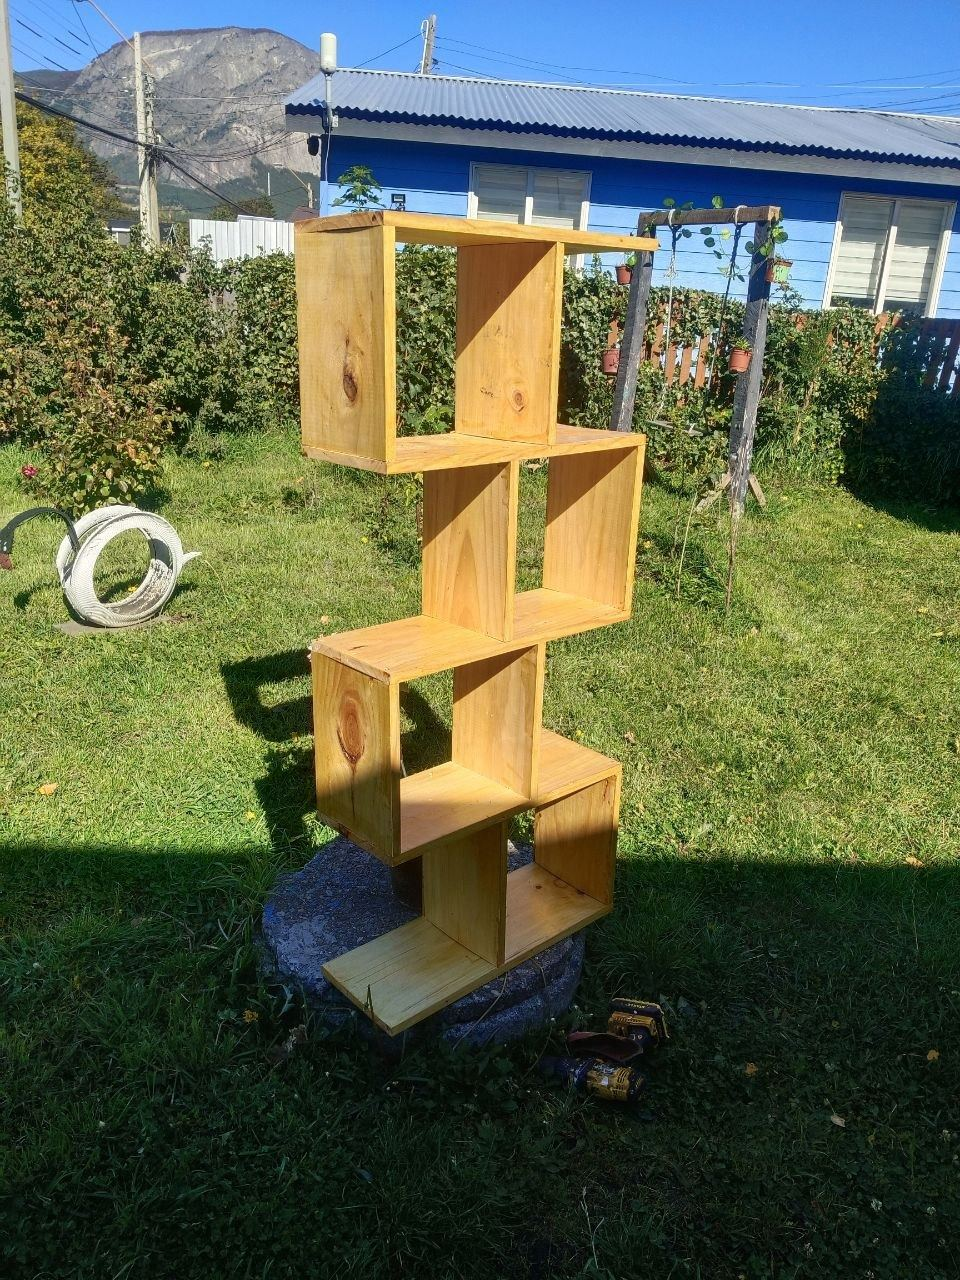
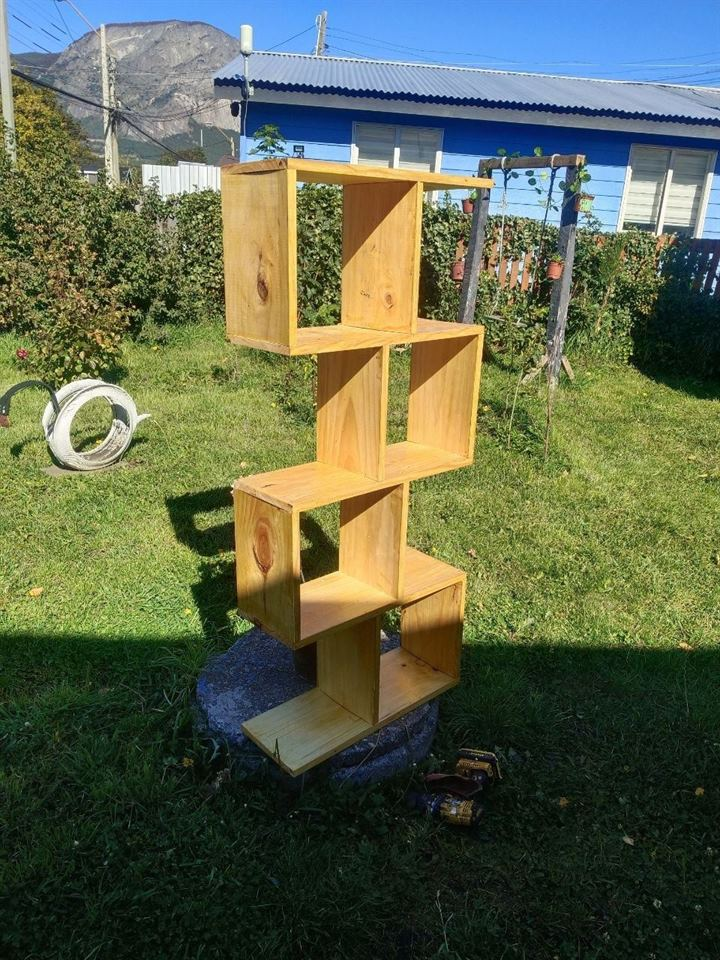
Posicionamiento: fotos pesadas optimizadas + kits de Perfil Google, Search Console/GA4 y difusion
- trabajo-6/8/12.jpg recomprimidas a 75% y <180 KB c/u (antes 248-358 KB) para velocidad movil
- marca/perfil-google.md: kit copiar-pegar para crear el Perfil de Negocio de Google (direccion + zona de servicio)
- marca/guia-search-console-ga4.md: pasos para registrar Search Console y GA4 y que datos pasarme
- marca/posts-difusion.md: borradores para Marketplace, grupos de Coyhaique, bio IG y WhatsApp a clientes

diff --git a/marca/perfil-google.md b/marca/perfil-google.md
@@ -1,0 +1,87 @@
+# 📍 Kit: Perfil de Negocio de Google (Google Maps)
+
+> **Por qué esto es lo #1:** cuando alguien en Coyhaique busca "muebles a medida", "soldador"
+> o "estanterías fierro madera", Google muestra PRIMERO el mapa con negocios locales.
+> Sin perfil, no existes en esa lista — con perfil, compites de inmediato.
+> Es gratis y se hace una sola vez. Todo lo de abajo está listo para **copiar y pegar**.
+
+---
+
+## Paso 1 — Crear el perfil
+
+1. Entra a **https://business.google.com** con tu cuenta `fer.becker21@gmail.com`
+2. Botón **"Agregar empresa"** (o "Administrar ahora")
+3. Ve pegando los datos de abajo en cada pantalla
+
+## Paso 2 — Datos para copiar y pegar
+
+| Campo | Valor |
+|---|---|
+| **Nombre del negocio** | `Soldaduras Becker · Fierro y Madera` |
+| **Categoría principal** | `Fabricante de muebles a medida` (si no aparece: `Herrería`) |
+| **Categorías secundarias** | `Herrería` · `Soldador` · `Taller de soldadura` |
+| **Teléfono** | `+56 9 5391 0713` |
+| **Sitio web** | `https://5egaloz.github.io/soldaduras-becker/` |
+| **Dirección** | ⚠ La escribes tú (dirección exacta del taller en Coyhaique) |
+| **¿Atiendes clientes en la dirección?** | **SÍ** (elegiste dirección visible) |
+| **¿Ofreces servicios fuera de tu dirección?** | **SÍ** → zona de servicio |
+| **Zona de servicio** | `Coyhaique` + `Región de Aysén` (agrega ambas) |
+
+**Horario** (igual al del sitio web — si no es el real, avísame y corrijo también la página):
+
+- Lunes a Sábado: **08:00 – 18:00**
+- Domingo: Cerrado
+
+## Paso 3 — Descripción del negocio (copiar y pegar)
+
+> Máximo 750 caracteres. Esta versión usa las palabras que la gente busca en Coyhaique:
+
+```
+Fabricamos muebles y estructuras en fierro y madera en Coyhaique: estanterías
+industriales, muebles para tiendas y negocios, mesas con patas metálicas, mesones,
+repisas y trabajos de soldadura a medida. Cada pieza se diseña según tu espacio y
+necesidad, combinando estructura de acero soldado con madera nativa de la zona.
+
+También hacemos rejas, portones y reparaciones en metal.
+
+Atendemos Coyhaique y toda la Región de Aysén. Cotiza por WhatsApp enviando una
+foto o idea de lo que necesitas: te respondemos con propuesta y precio. Trabajos
+que duran años, hechos en la Patagonia.
+```
+
+## Paso 4 — Fotos (súbelas apenas crees el perfil)
+
+Los perfiles con fotos reciben **muchos más contactos**. Sube las mismas de la galería
+del sitio (`assets\trabajos\`), en este orden de impacto:
+
+1. **La estantería industrial negra + madera** (la misma de `assets/og-imagen.jpg`) → ponla como **foto de portada**
+2. El mueble de la tienda de vinos
+3. La estantería del container
+4. Mesa con patas X / mesón / mesa redonda
+5. El resto de la galería (mientras más, mejor)
+
+📌 Si puedes, agrega después 1 foto tuya trabajando (soldando) — genera confianza.
+
+## Paso 5 — Verificación (solo tú puedes hacerla)
+
+Google te pedirá verificar que el negocio es real. Según lo que ofrezca:
+
+- **Video en vivo** (lo más común hoy): te pide grabar con el celular el taller,
+  herramientas de soldar y algún trabajo en proceso. Tenlo a mano antes de partir.
+- **Teléfono/SMS**: te llega un código al +56 9 5391 0713.
+- **Carta postal**: llega en 1–2 semanas a la dirección con un código.
+
+⚠ **El perfil NO aparece en Maps hasta completar la verificación.** Si te ofrece
+video, hazlo al tiro — es lo más rápido (aprobación en días).
+
+## Paso 6 — Después de verificado (5 minutos más)
+
+- [ ] Agregar link de Instagram: `https://www.instagram.com/muebleria.becker/` (Perfil → Editar → Redes sociales)
+- [ ] Activar **mensajes/chat** para que te escriban directo desde Google
+- [ ] Pedir a 2–3 clientes reales (tienda de vinos, el del container) que dejen
+      **reseña con estrellas** — las reseñas son EL factor de ranking local
+- [ ] Publicar 1 foto nueva de trabajo terminado cada 1–2 semanas (Perfil → Agregar novedad)
+
+---
+
+*Kit generado 2026-07-05. Datos tomados del sitio publicado (JSON-LD LocalBusiness).*

diff --git a/marca/posts-difusion.md b/marca/posts-difusion.md
@@ -1,0 +1,97 @@
+# 📣 Borradores de difusión — listos para copiar y pegar
+
+> El SEO trae visitas en semanas/meses. Esto trae visitas **hoy**.
+> Coyhaique se mueve por Facebook Marketplace y los grupos de compra/venta.
+
+---
+
+## 1. Facebook Marketplace (publicar como artículo)
+
+**Título:** `Muebles a medida en fierro y madera — Coyhaique`
+
+**Precio:** poner el de un mueble de referencia (ej. una estantería), o "a convenir"
+
+**Categoría:** Muebles
+
+**Descripción:**
+```
+Fabricamos muebles y estructuras en fierro y madera, hechos a medida en Coyhaique:
+
+✅ Estanterías industriales (negras, estilo loft)
+✅ Muebles para tiendas y negocios
+✅ Mesas con base de fierro soldado, mesones, repisas
+✅ También rejas, portones y soldadura en general
+
+Cada trabajo se hace según tu espacio y necesidad. Estructura de acero soldado
++ madera de la zona = muebles que duran años.
+
+📸 Mira trabajos reales: https://5egaloz.github.io/soldaduras-becker/
+📲 Cotiza por WhatsApp +56 9 5391 0713 — manda una foto o idea y te doy precio.
+
+Coyhaique y alrededores, Región de Aysén.
+```
+
+**Fotos:** las mismas 4–6 mejores de la galería (portada: estantería industrial).
+
+> 💡 Marketplace posiciona por actividad: **renueva la publicación cada 1–2 semanas**
+> (o publica un mueble distinto cada vez: una semana la estantería, otra la mesa…).
+
+---
+
+## 2. Grupos de Facebook de Coyhaique
+
+*(ej: "Compra y Venta Coyhaique", "Avisos Coyhaique", "Maestros y Servicios Aysén")*
+
+```
+🔨 MUEBLES EN FIERRO Y MADERA — HECHOS EN COYHAIQUE 🌲
+
+¿Necesitas una estantería, un mueble para tu negocio o una mesa que aguante de
+verdad? Los fabricamos a medida: estructura de fierro soldado + madera.
+
+También rejas, portones y trabajos de soldadura.
+
+Trabajos reales aquí 👉 https://5egaloz.github.io/soldaduras-becker/
+WhatsApp 📲 +56 9 5391 0713 (manda foto o idea y te cotizo)
+Instagram: @muebleria.becker
+```
+
+> 💡 Sube 2–3 fotos con el post. En grupos, los posts con foto de trabajo REAL
+> (no logo) reciben el triple de comentarios.
+
+---
+
+## 3. Bio de Instagram (@muebleria.becker)
+
+Perfil → Editar perfil:
+
+**Bio (150 caracteres máx):**
+```
+🔨 Muebles y estructuras en fierro y madera
+📍 Coyhaique · Región de Aysén
+📲 Cotiza por WhatsApp 👇
+```
+
+**Sitio web / enlace:** `https://5egaloz.github.io/soldaduras-becker/`
+
+> 💡 Opcional: en Instagram → Configuración → Herramientas de empresa puedes
+> agregar botón de WhatsApp directo con el +56 9 5391 0713.
+
+---
+
+## 4. Mensaje de WhatsApp para clientes antiguos (opcional, muy efectivo)
+
+Para la tienda de vinos, el del container y cualquier cliente pasado:
+
+```
+Hola! Soy Fernando de Soldaduras Becker (te hice [el mueble/la estantería]).
+Armé una página con mis trabajos: https://5egaloz.github.io/soldaduras-becker/
+
+Te quería pedir un favor chico: cuando cree el perfil de Google del taller,
+¿me dejarías una reseña? Te tomará 1 minuto y me ayuda un montón a que me
+encuentren. ¡Gracias! Y cualquier cosa que necesites en fierro/madera, avísame.
+```
+
+> Esto prepara las **reseñas de Google** (el factor #1 del ranking local) y de paso
+> reactiva clientes que ya te conocen.
+
+*Borradores generados 2026-07-05. Ajusta lo que quieras antes de publicar — que suene a ti.*

diff --git a/marca/guia-search-console-ga4.md b/marca/guia-search-console-ga4.md
@@ -1,0 +1,53 @@
+# 🔎 Guía: Search Console + Google Analytics 4
+
+> Dos registros gratis con tu cuenta `fer.becker21@gmail.com`.
+> **Search Console** = que Google indexe bien el sitio y te diga con qué búsquedas te encuentran.
+> **GA4** = saber cuánta gente visita la página y desde dónde.
+> En ambos casos tú creas la cuenta y **me pasas un dato** — yo hago el resto en el código.
+
+---
+
+## A. Google Search Console (~5 min)
+
+1. Entra a **https://search.google.com/search-console**
+2. Botón **"Agregar propiedad"** → elige el tipo **"Prefijo de URL"** (NO "Dominio")
+3. Pega exactamente: `https://5egaloz.github.io/soldaduras-becker/`
+4. En los métodos de verificación, elige **"Etiqueta HTML"**
+5. Te mostrará una línea como esta:
+   ```html
+   <meta name="google-site-verification" content="AbC123xyz..." />
+   ```
+   **Cópiala completa y pásamela** (o solo el código del `content`).
+6. Yo la agrego al `<head>` de las 5 páginas y hago push (queda en vivo en ~1 min)
+7. Vuelves a Search Console y aprietas **"Verificar"** ✅
+8. Último paso (tú, 1 min): menú **Sitemaps** → escribir `sitemap.xml` → **Enviar**
+
+> Resultado: en unos días Search Console empieza a mostrar en qué búsquedas
+> apareces y qué posición tienes. Google además indexa las 5 páginas más rápido.
+
+---
+
+## B. Google Analytics 4 (~5 min)
+
+1. Entra a **https://analytics.google.com**
+2. **Empezar a medir** → nombre de cuenta: `Soldaduras Becker`
+3. Crear **propiedad**: nombre `Sitio Soldaduras Becker`, zona horaria **Chile**, moneda **CLP**
+4. Sector: "Otros" o "Construcción" · Tamaño: pequeña
+5. Plataforma: **Web** → URL: `https://5egaloz.github.io/soldaduras-becker/` → nombre del flujo: `Sitio principal`
+6. Te mostrará un **ID de medición** con formato **`G-XXXXXXXXXX`** (arriba a la derecha del flujo de datos)
+7. **Pásame ese ID** — lo pego en `analytics.js` (ya está todo cableado, solo espera el ID) y hago push
+8. Verificación: abres el sitio en el celular y en GA4 → **Informes → Tiempo real** te ves a ti mismo 📈
+
+> ⚠ Si Google te ofrece "instalar con Google Tag Manager" o pegar código: **no hace falta**,
+> el código ya está en el sitio. Solo necesito el ID `G-...`.
+
+---
+
+## Resumen de lo que me tienes que mandar
+
+| Dato | Formato | Qué hago yo |
+|---|---|---|
+| Meta tag de Search Console | `<meta name="google-site-verification" content="...">` | La pongo en las 5 páginas + push |
+| ID de medición GA4 | `G-XXXXXXXXXX` | Lo activo en `analytics.js` + push |
+
+*Guía generada 2026-07-05.*
